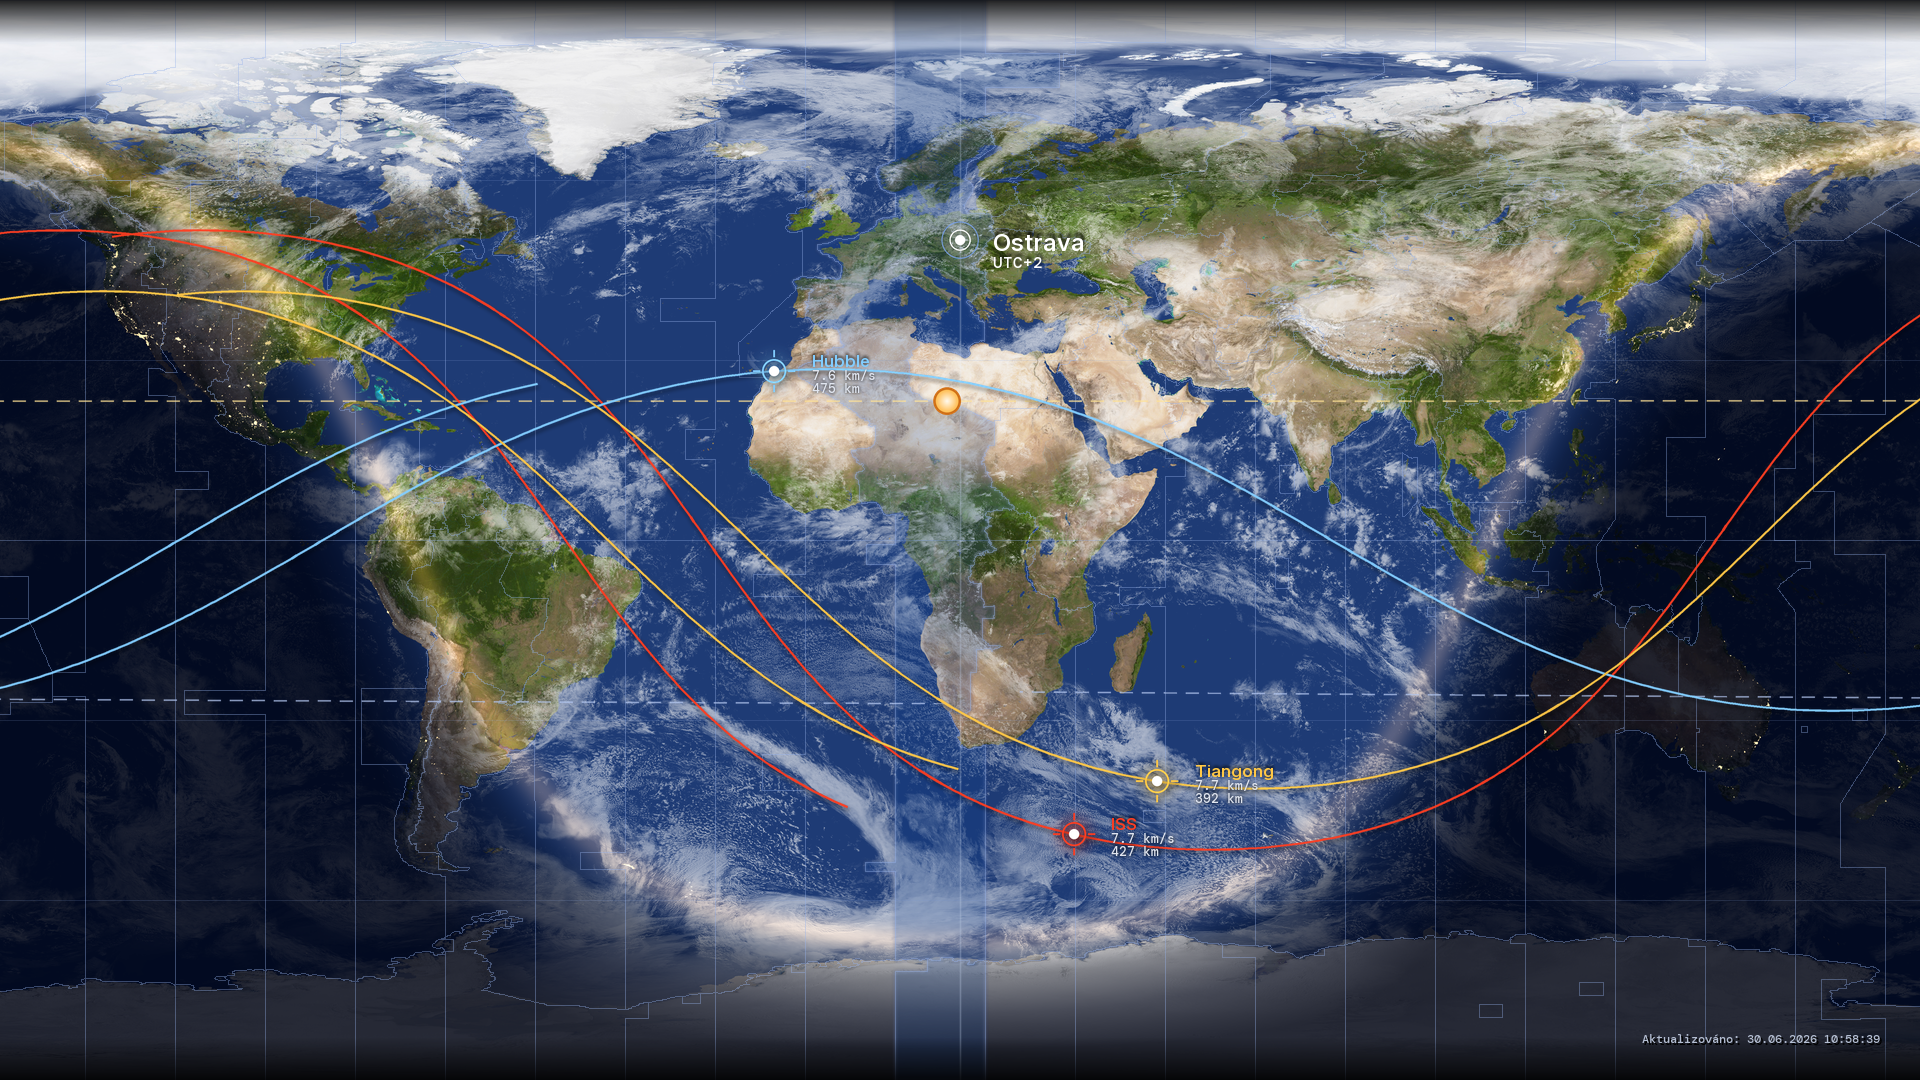
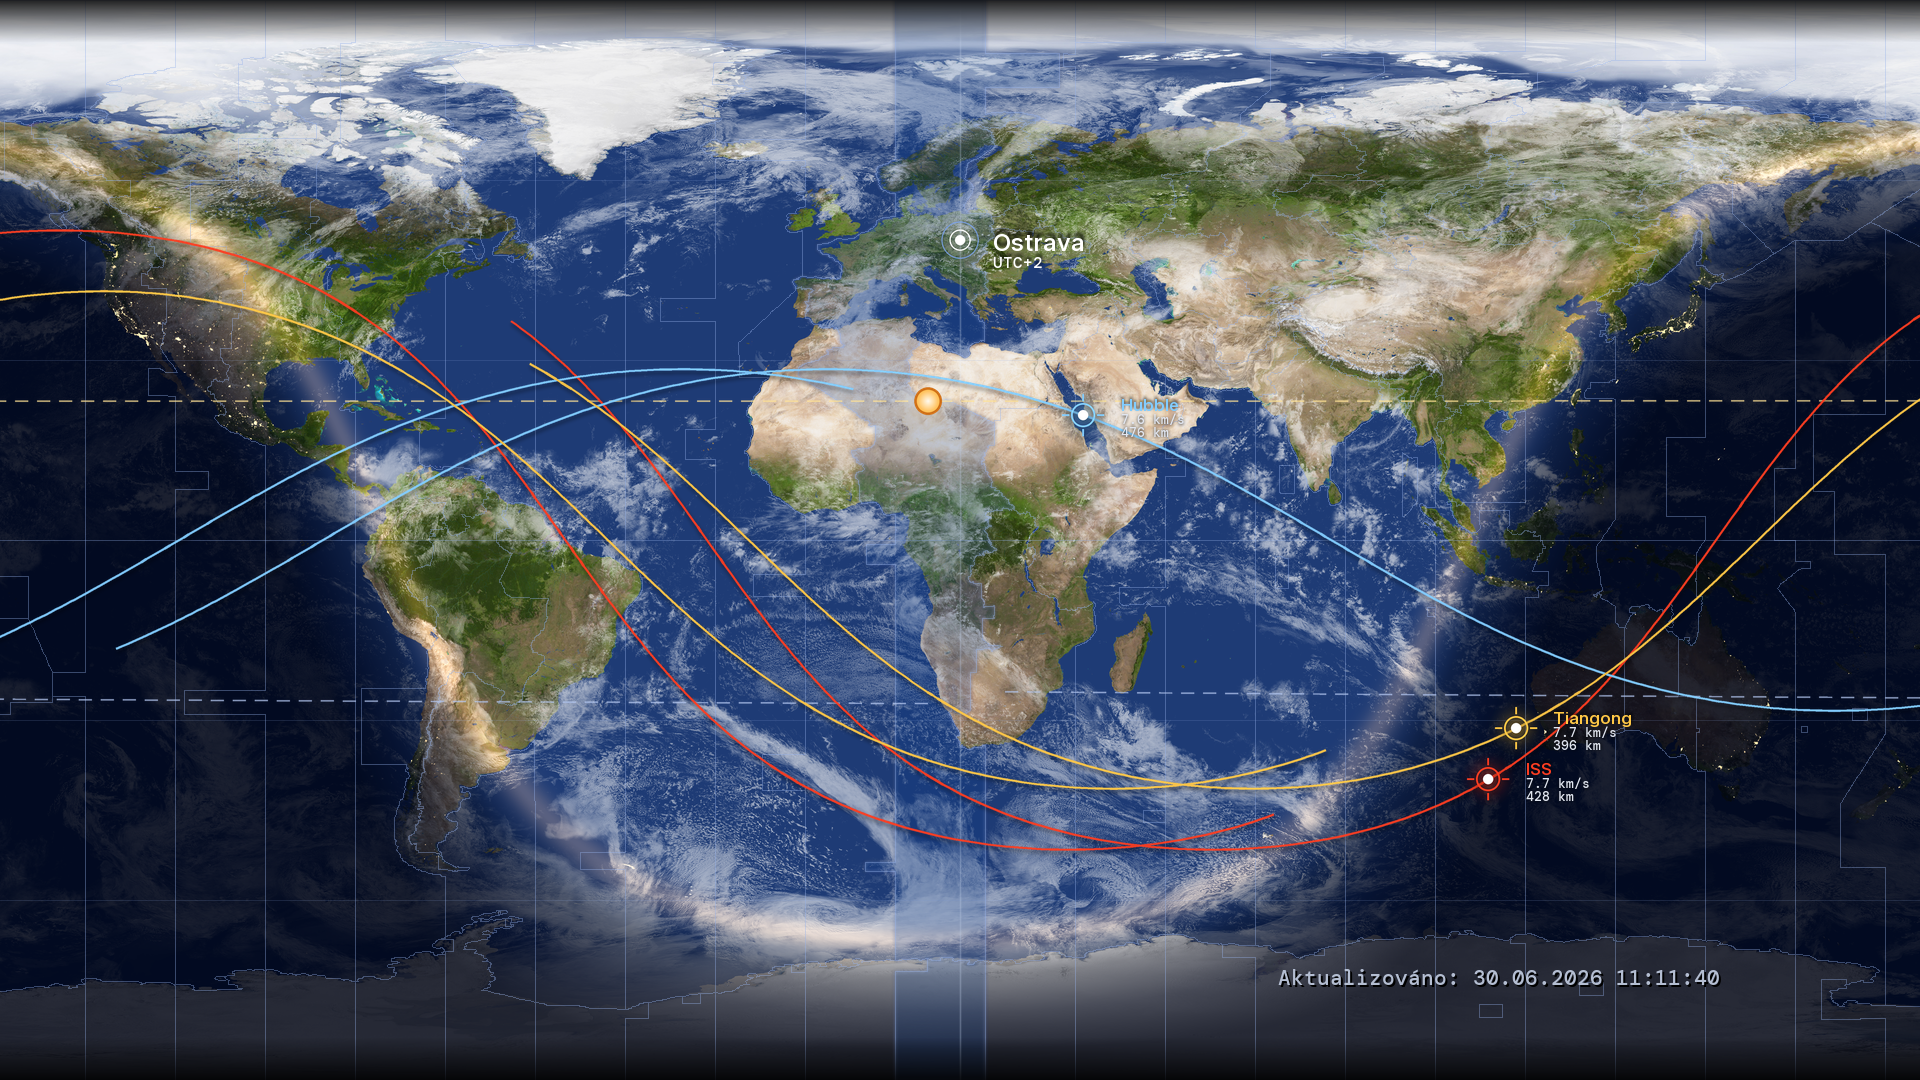
refactor: increase timestamp font size and adjust positioning on canvas and update associated assets

diff --git a/penumbra.py b/penumbra.py
@@ -1073,11 +1073,11 @@ def build_wallpaper(when=None):
     try:
         import datetime as dt_module
         now_str = dt_module.datetime.now().strftime("Aktualizováno: %d.%m.%Y %H:%M:%S")
-        time_font = load_font(size=max(12, int(sh * 0.012)), mono=True)
+        time_font = load_font(size=max(16, int(sh * 0.020)), mono=True)
         cd = ImageDraw.Draw(canvas, "RGBA")
         bbox = cd.textbbox((0,0), now_str, font=time_font)
         tw, th = bbox[2] - bbox[0], bbox[3] - bbox[1]
-        x_pos, y_pos = sw - tw - 40, sh - th - 40
+        x_pos, y_pos = sw - tw - 200, sh - th - 100
         cd.text((x_pos + 2, y_pos + 2), now_str, font=time_font, fill=(0, 0, 0, 180))
         cd.text((x_pos, y_pos), now_str, font=time_font, fill=(180, 190, 210, 200))
     except Exception: